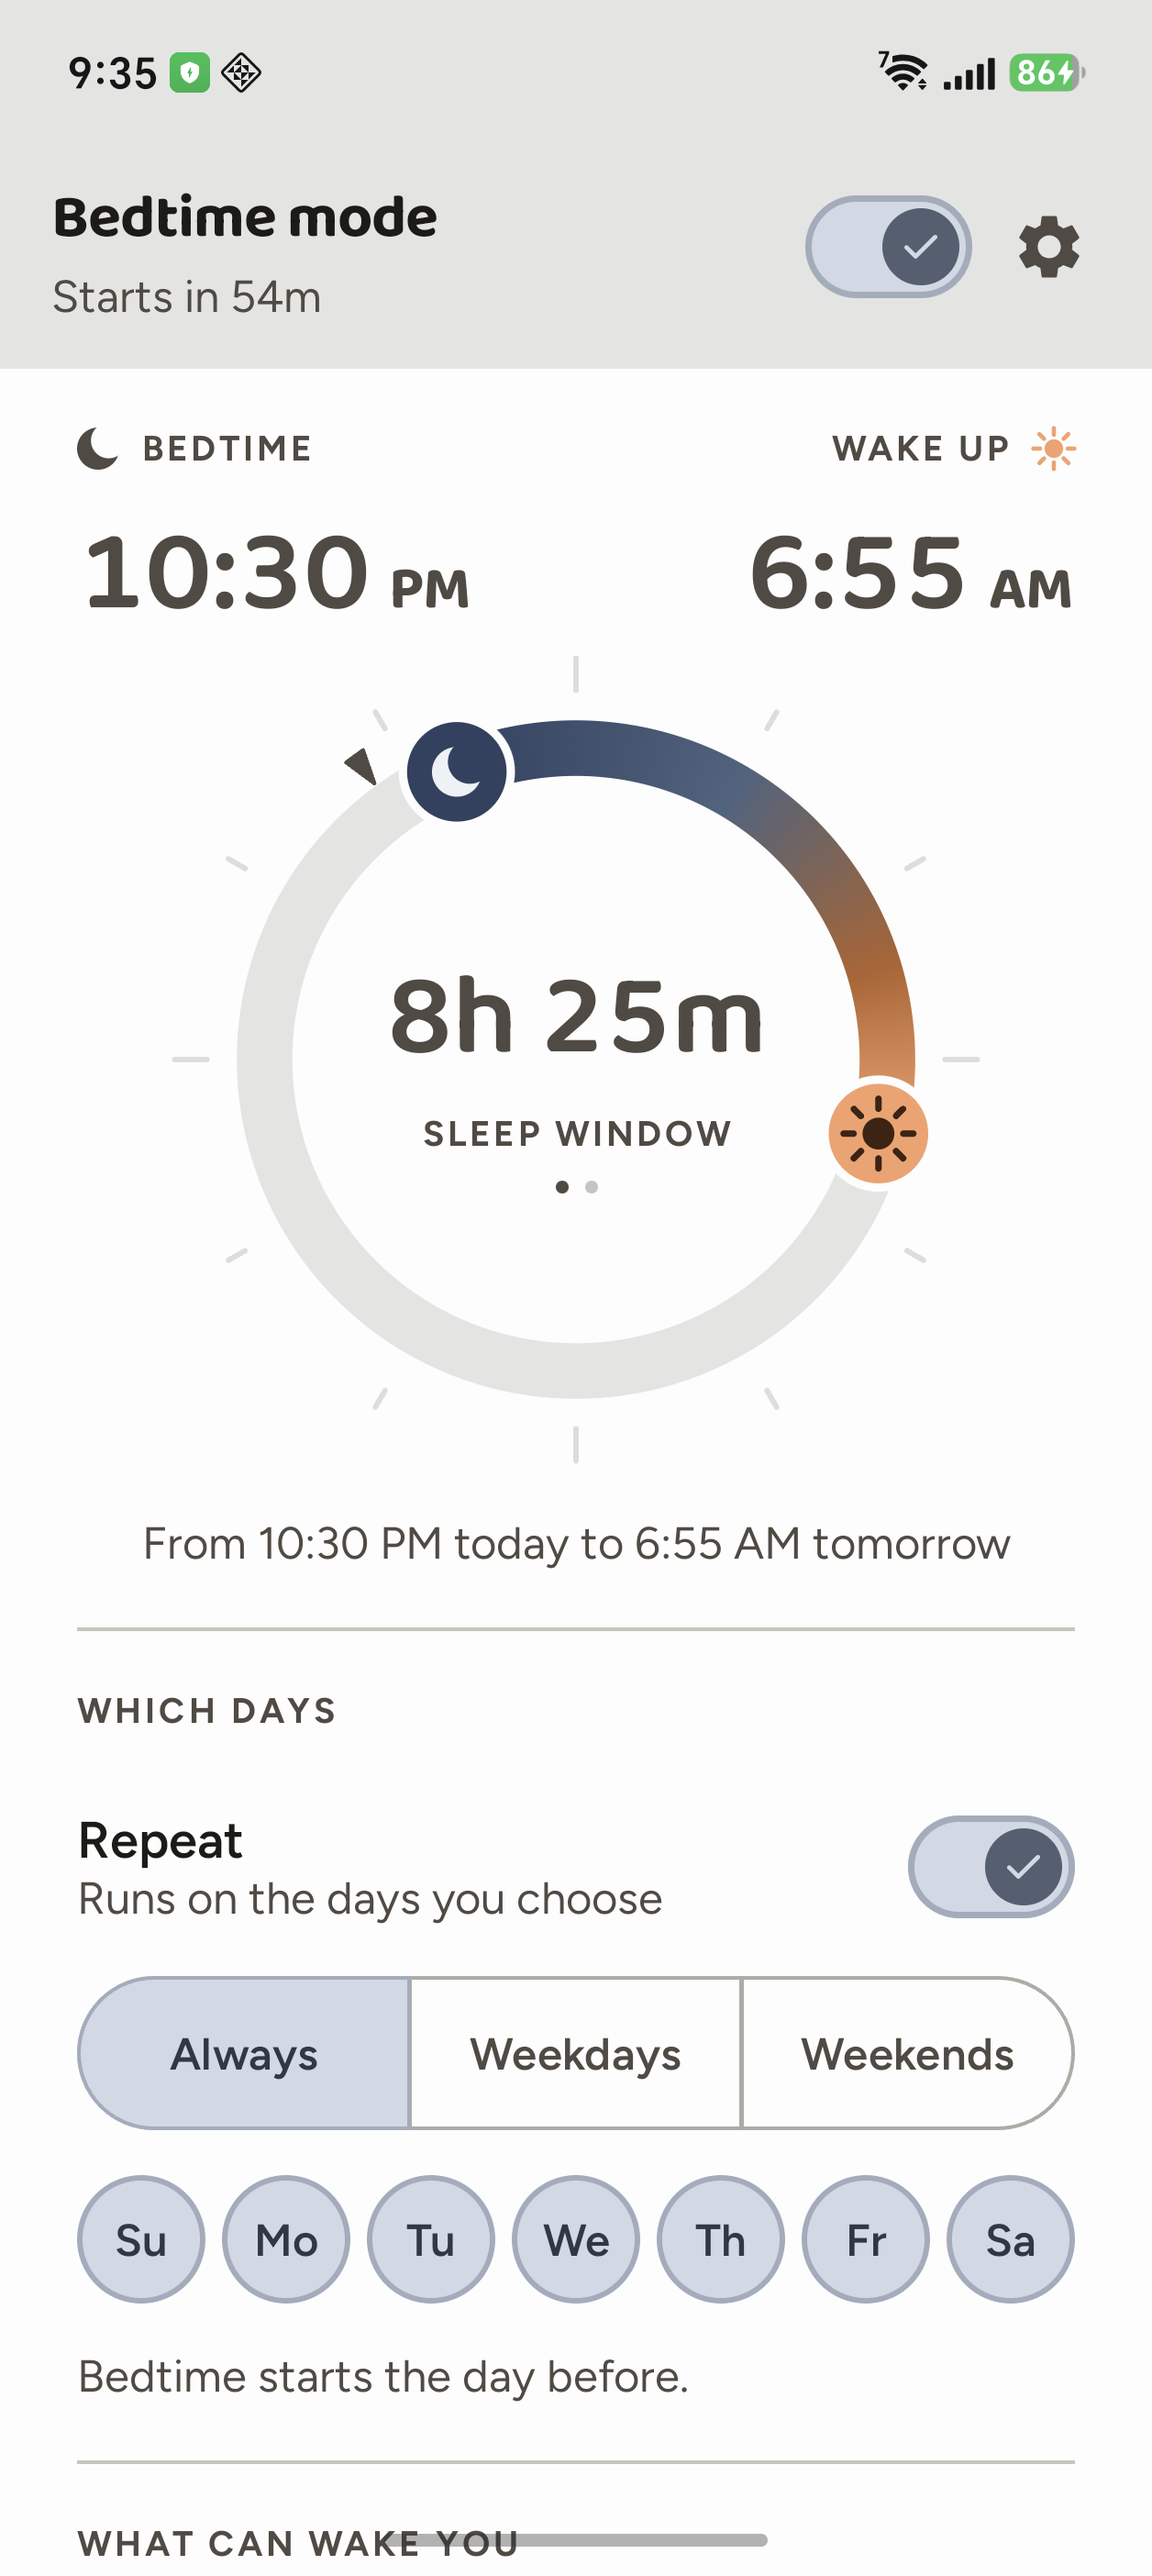
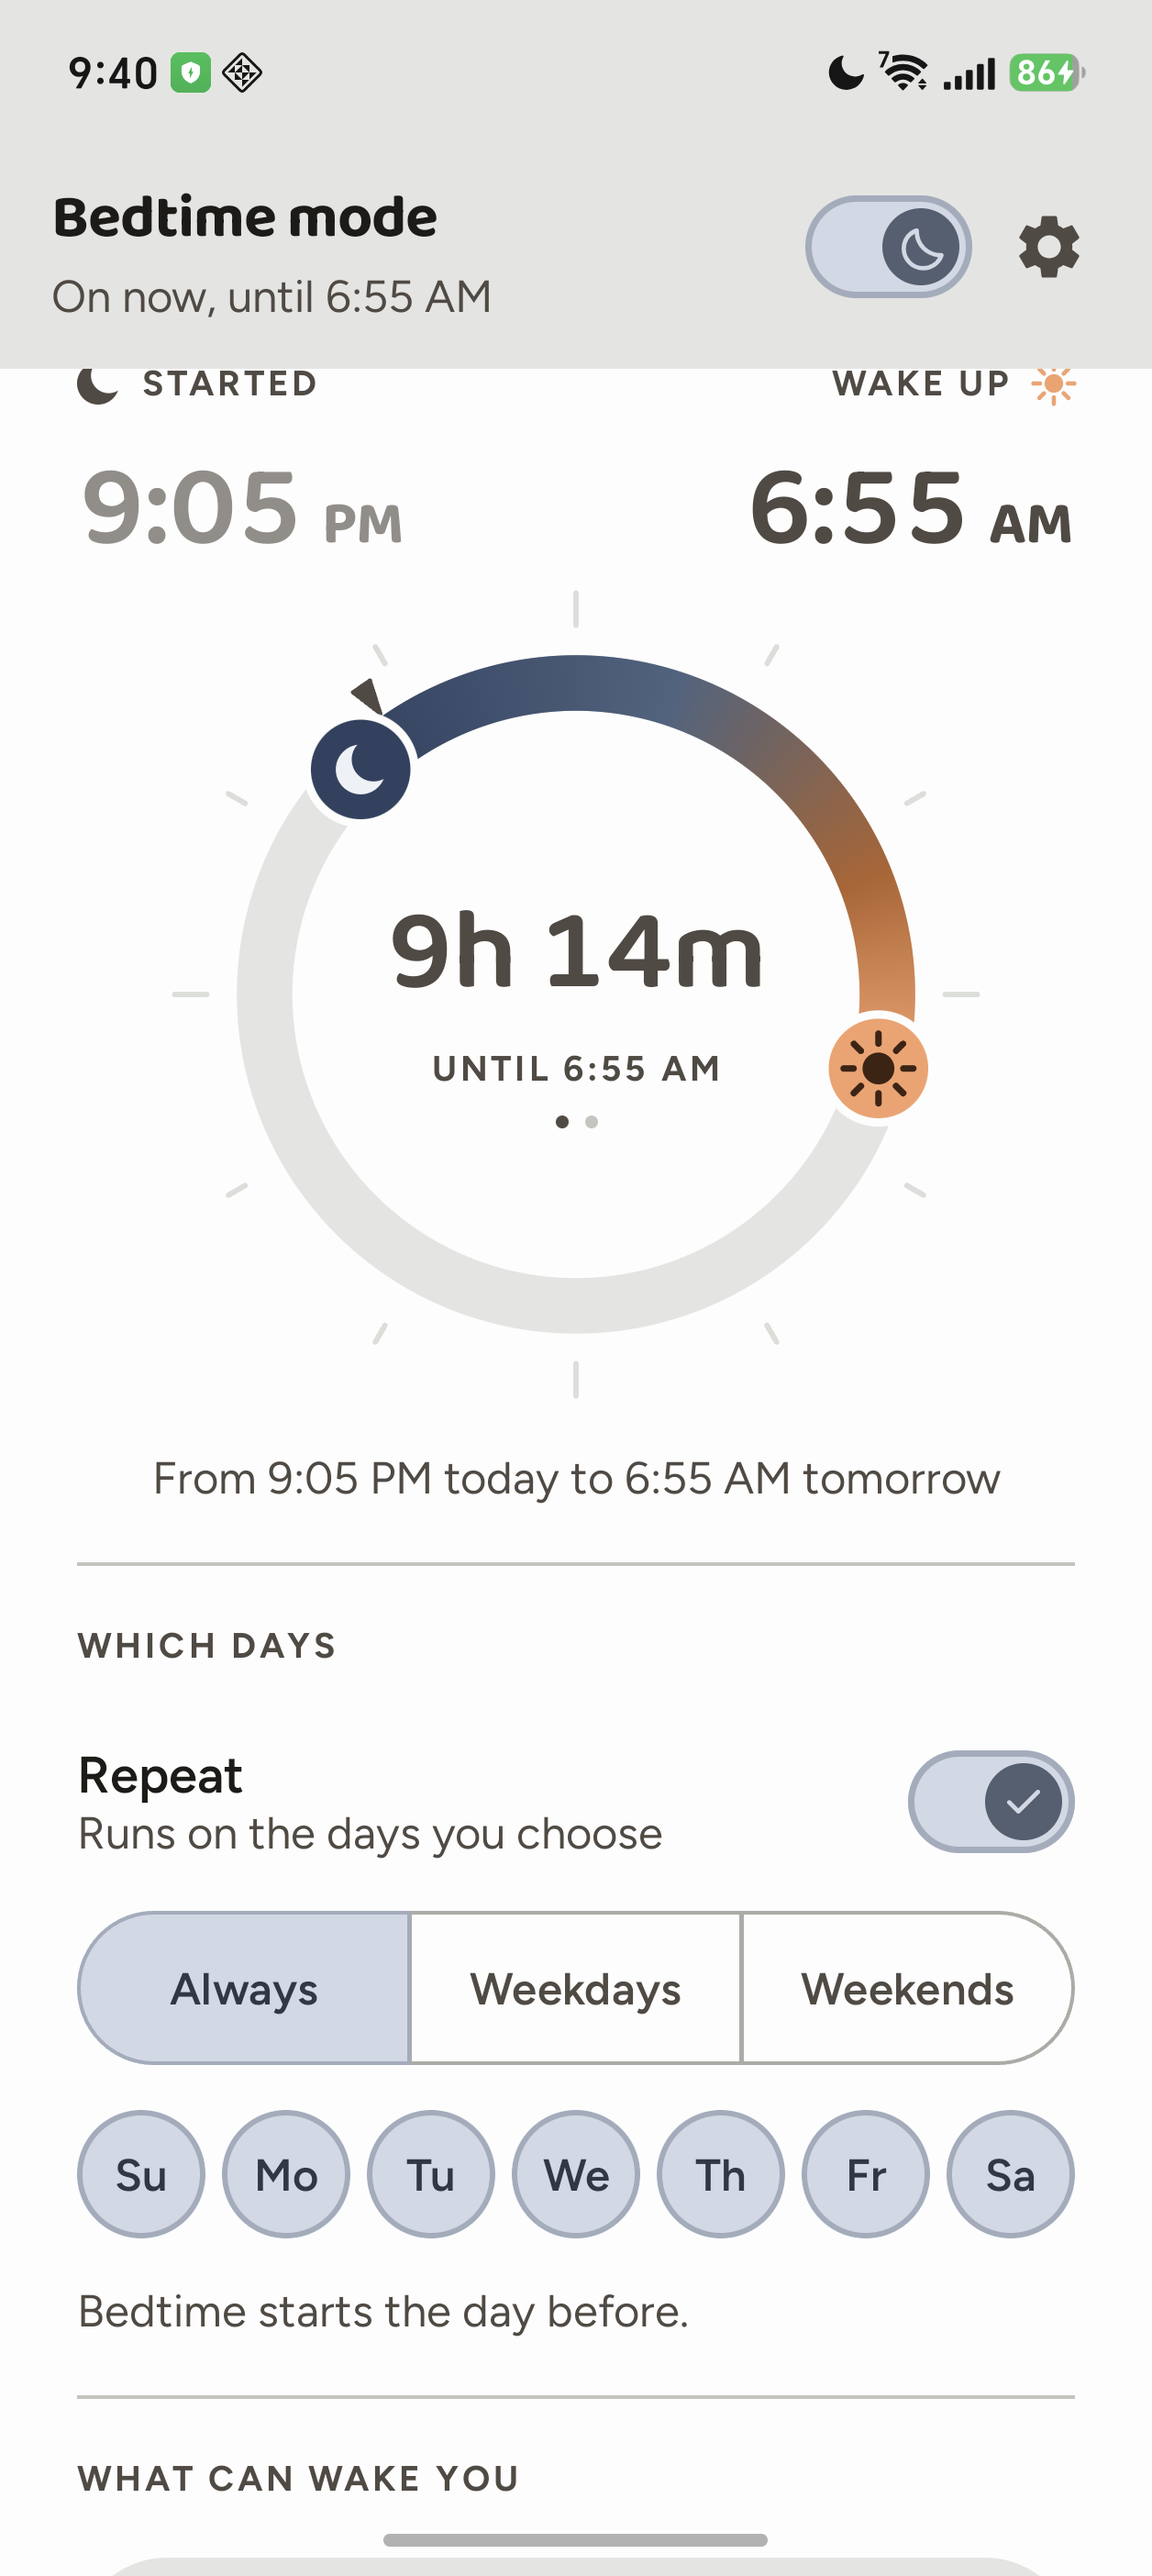
Take the screenshots with a window actually running
All five showed the armed state, which is the app waiting rather than
the app working. These are taken mid-window, where the screen shows
things no other state does: the arc split into hours spent and hours
left, the now-marker on the ring, the moon in the switch thumb rather
than a check, and the phone's own "In effect" readout in place of the
plan note.

Grayscale is switched OFF for them, deliberately, and the reason is a
trap this project already documents from the other side. While a window
runs with grayscale on, the phone's glass is grey - but `screencap`
grabs the framebuffer BEFORE the display's colour transform, so the
captures came out fully coloured. Honest-looking files of a screen that
is not what you would see. Dark theme is on in their place: its effect
applies at screen-off, so it demonstrates the feature without colouring
the capture a lie.

diff --git a/README.md b/README.md
@@ -15,8 +15,8 @@ it — driven by exact alarms, so it fires with the app closed.
 [![Compose](https://img.shields.io/badge/Jetpack%20Compose-Material%203-4285F4)](https://developer.android.com/jetpack/compose)
 [![Tests](https://img.shields.io/badge/tests-93-success)](#tests)
 
-<img src="docs/screenshots/home.png" width="19%" alt="Home">
-<img src="docs/screenshots/home-dark.png" width="19%" alt="Home, dark">
+<img src="docs/screenshots/home.png" width="19%" alt="Home, mid-window">
+<img src="docs/screenshots/home-dark.png" width="19%" alt="Home, dark, mid-window">
 <img src="docs/screenshots/effects.png" width="19%" alt="How the screen looks">
 <img src="docs/screenshots/allowed.png" width="19%" alt="What is allowed">
 <img src="docs/screenshots/settings.png" width="19%" alt="Settings">
